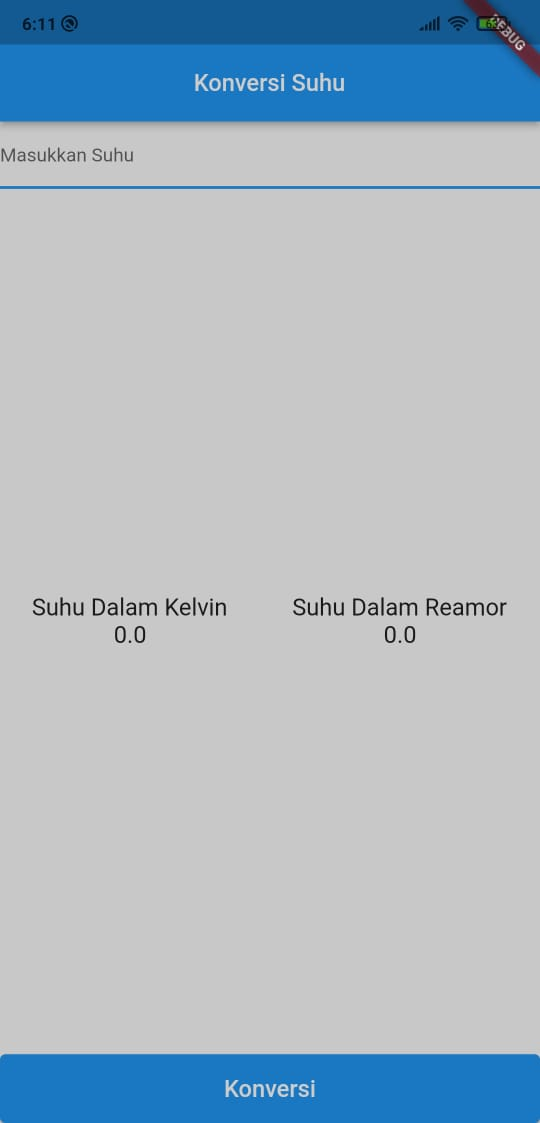
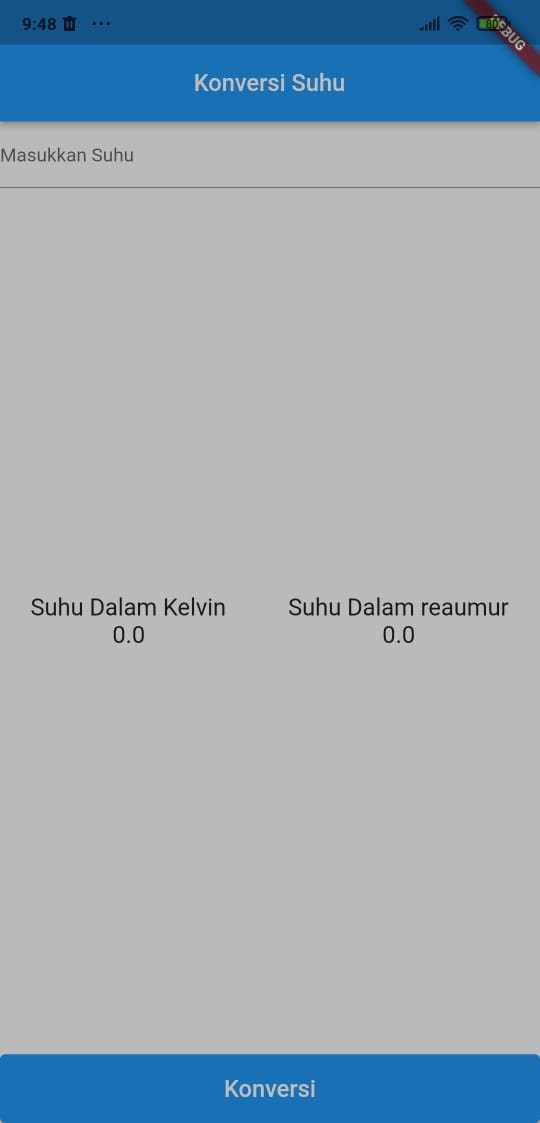
konversi_suhu_flutter

diff --git a/lib/main.dart b/lib/main.dart
@@ -14,13 +14,13 @@ class MyApp extends StatefulWidget {
 
 class _MyAppState extends State<MyApp> {
   TextEditingController text1 = TextEditingController();
-  double kelvin = 0, reamor = 0, input = 0;
+  double kelvin = 0, reaumur = 0, input = 0;
 
   konversi() {
     setState(() {
       input = double.parse(text1.text);
       kelvin = input + 273;
-      reamor = input * 4 / 5;
+      reaumur = input * 4 / 5;
     });
   }
 
@@ -36,7 +36,7 @@ class _MyAppState extends State<MyApp> {
             mainAxisAlignment: MainAxisAlignment.spaceBetween,
             children: [
               inputSuhu(text1: text1),
-              Hasil(kelvin: kelvin, reamor: reamor),
+              Hasil(kelvin: kelvin, reaumur: reaumur),
               konvertButton(text1: text1, konversi: konversi)
             ],
           ),
@@ -99,11 +99,11 @@ class Hasil extends StatelessWidget {
   const Hasil({
     Key? key,
     required this.kelvin,
-    required this.reamor,
+    required this.reaumur,
   }) : super(key: key);
 
   final double kelvin;
-  final double reamor;
+  final double reaumur;
 
   @override
   Widget build(BuildContext context) {
@@ -125,11 +125,11 @@ class Hasil extends StatelessWidget {
         Column(
           children: [
             Text(
-              "Suhu Dalam Reamor",
+              "Suhu Dalam reaumur",
               style: TextStyle(fontSize: 20),
             ),
             Text(
-              "$reamor",
+              "$reaumur",
               style: TextStyle(fontSize: 20),
             ),
           ],
